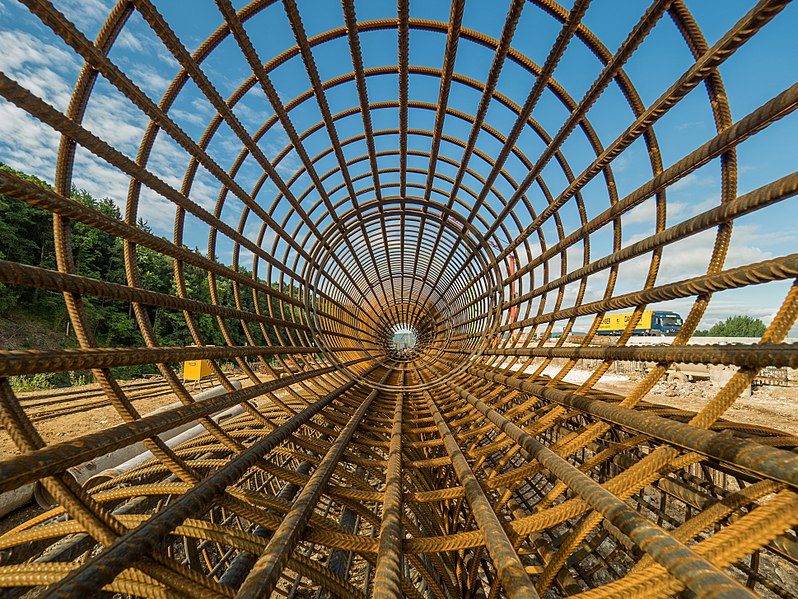
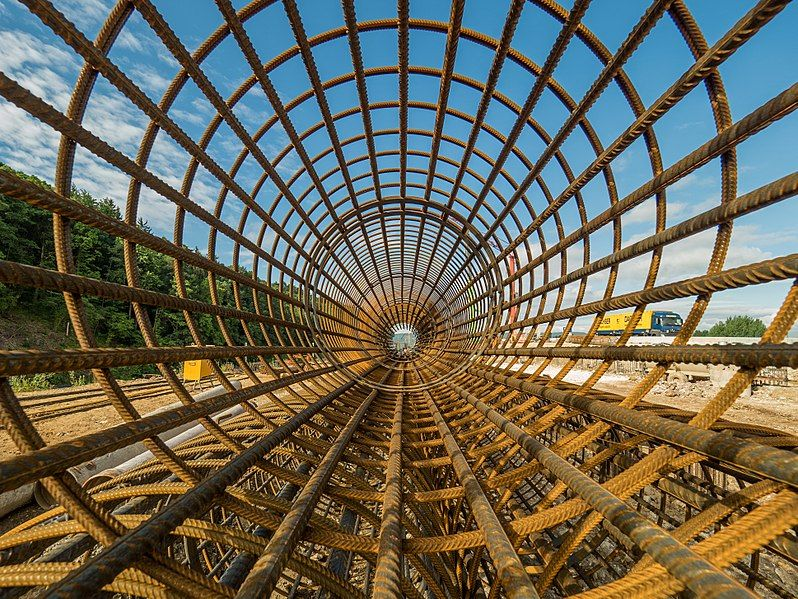
compressed and resized large images

diff --git a/css/style.css b/css/style.css
@@ -297,7 +297,7 @@ nav img {
 */
 
 #landing-page {
-    background:url("../images/Project\ 1.jpg");
+    background:url("../images/Project-1.jpg");
     background-position: center center;
     background-repeat: no-repeat;
     background-size: cover;
@@ -2130,7 +2130,7 @@ footer {
                 justify-content: space-between;
         margin: auto;
         position: relative;
-        top: -120px;
+        top: -100px;
     }
 
     .clippy {
